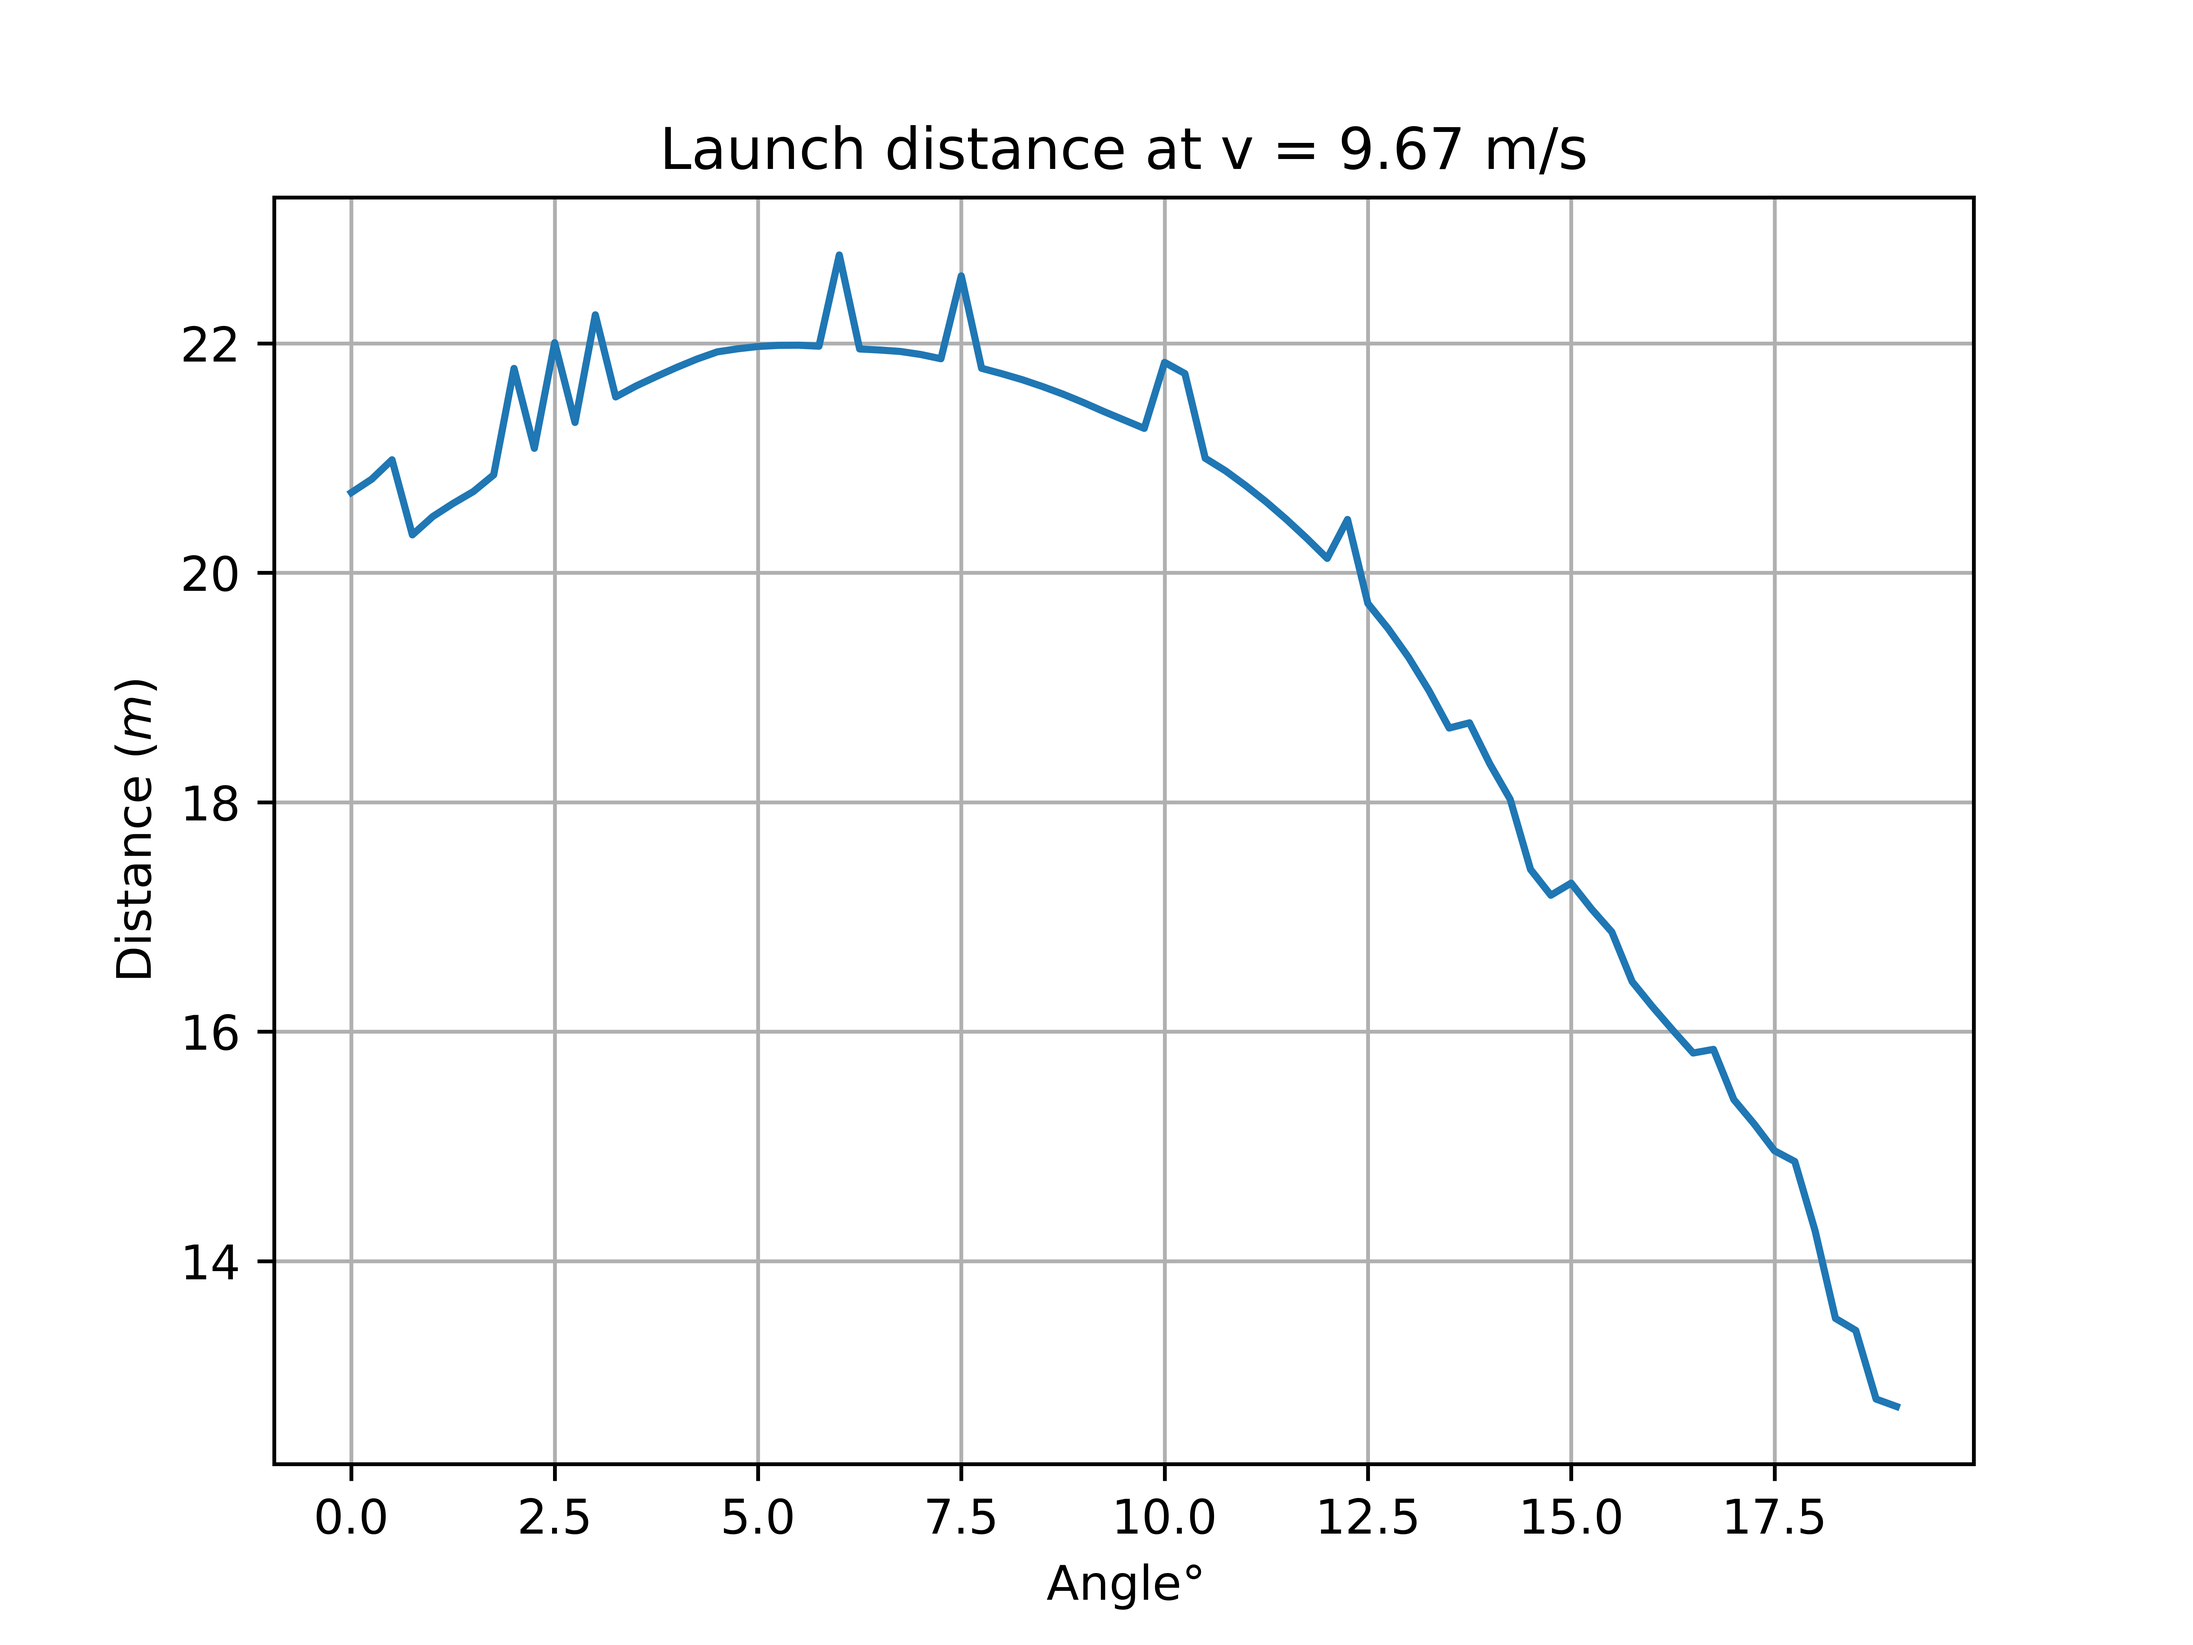
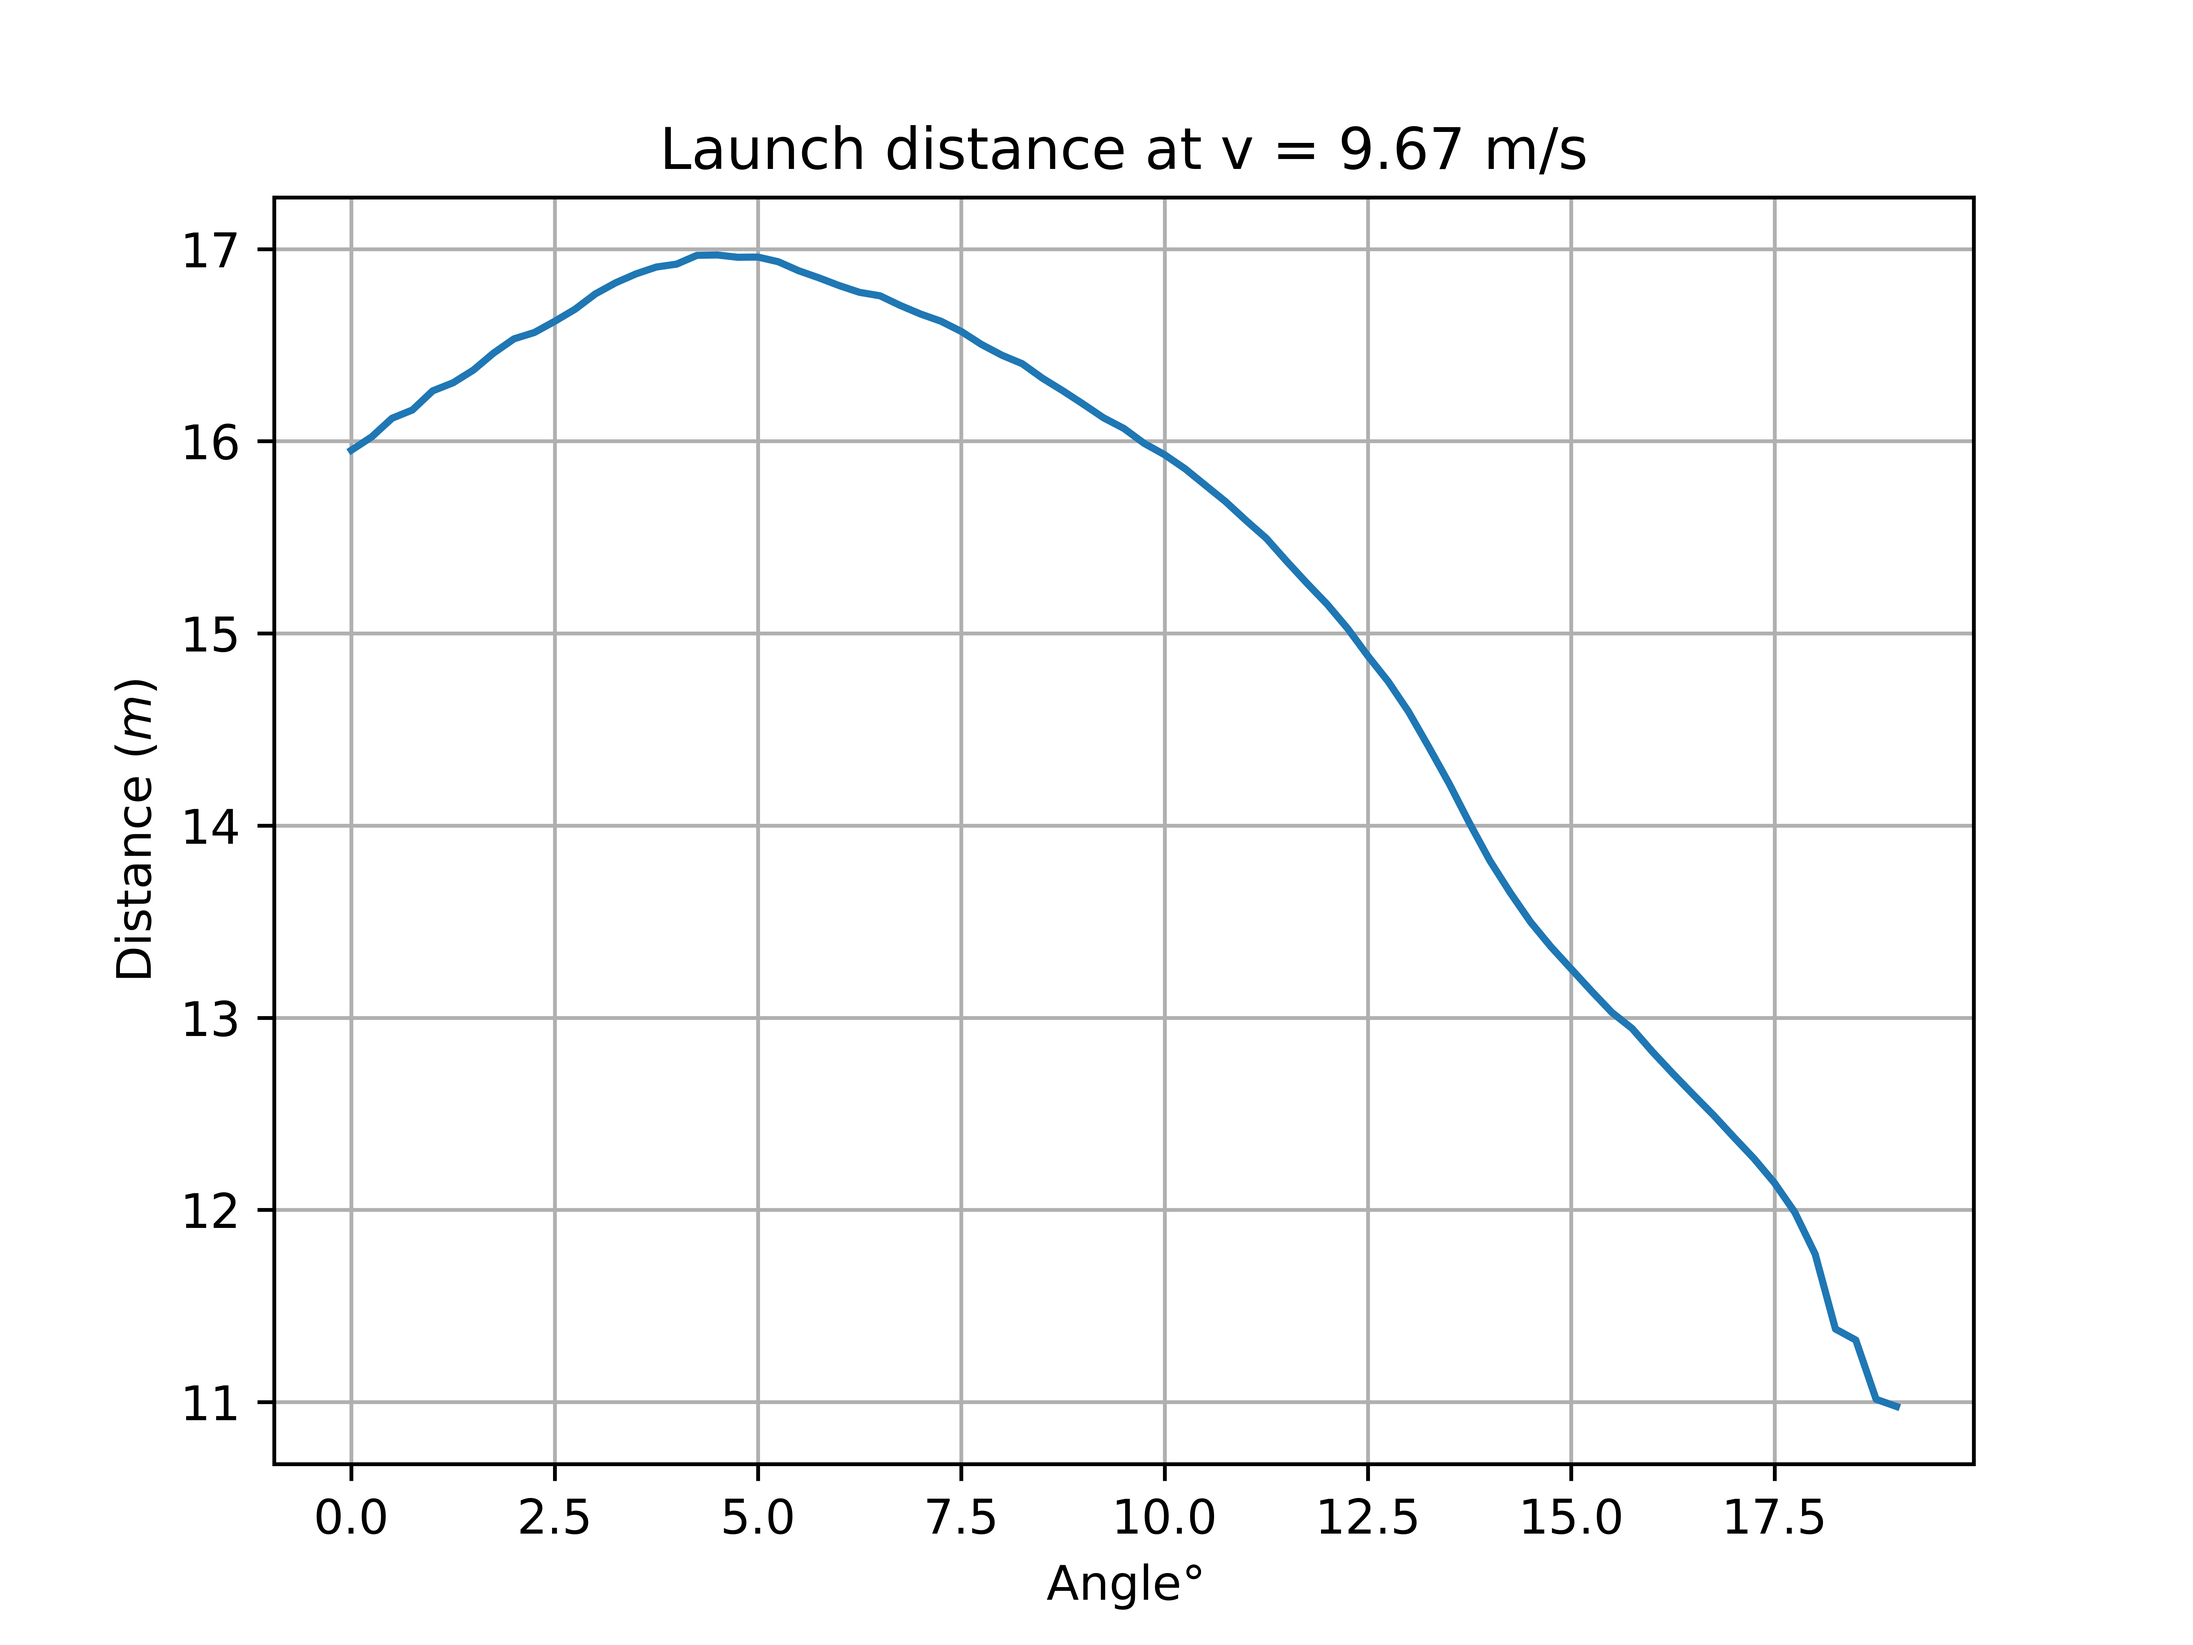
fixed weird peaks by increasing the precision of drag

diff --git a/launch_cont.py b/launch_cont.py
@@ -38,12 +38,12 @@ for i in data:
 
     t = (2 * h1/a)**0.5
 
-    t0 = 0.1 * t
+    t0 = 0.01 * t
     t1 = t0
     d2 = 0
 
     while t0 < t:
-        t0 += 0.1 * t
+        t0 += 0.01 * t
         vHor1 = 1 / (coef * t0 * Cd + 1/vHor1)
         d2 = vHor1 * t1 + d2
 
